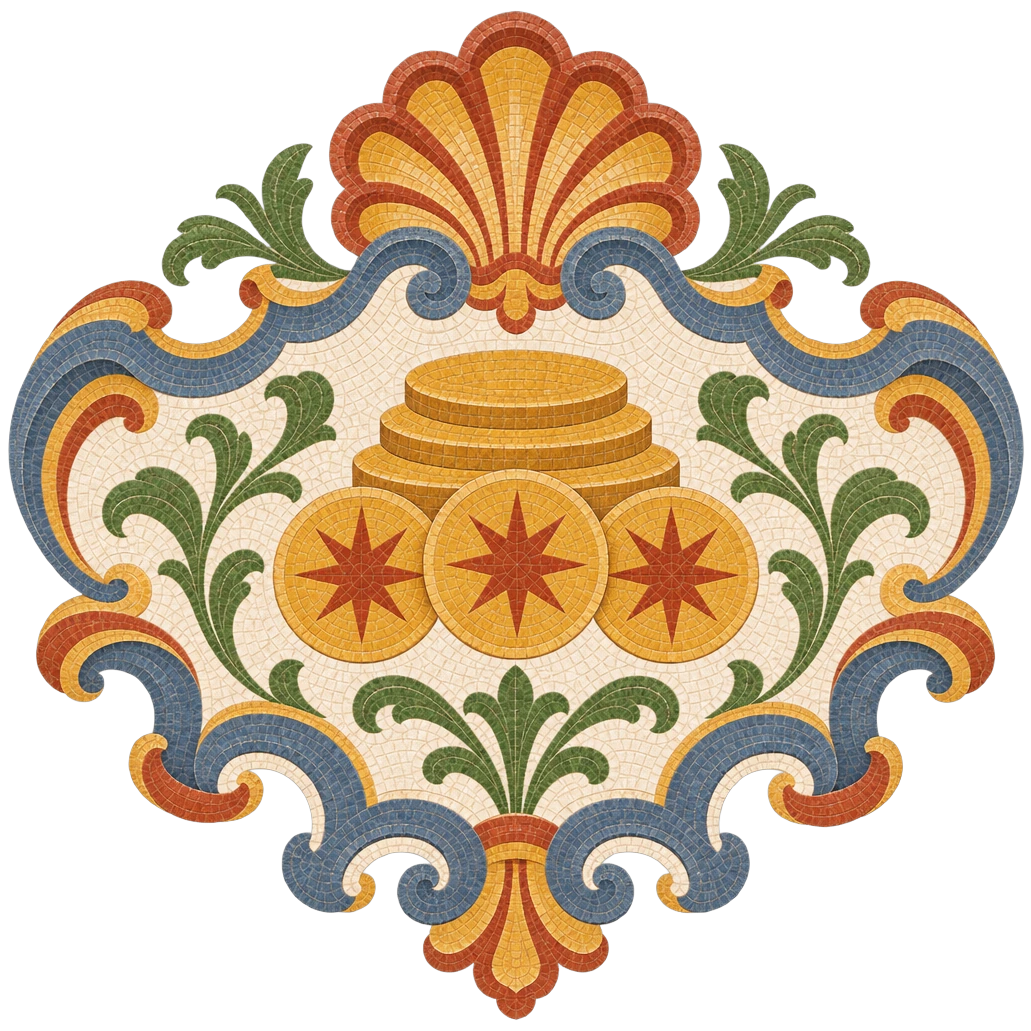
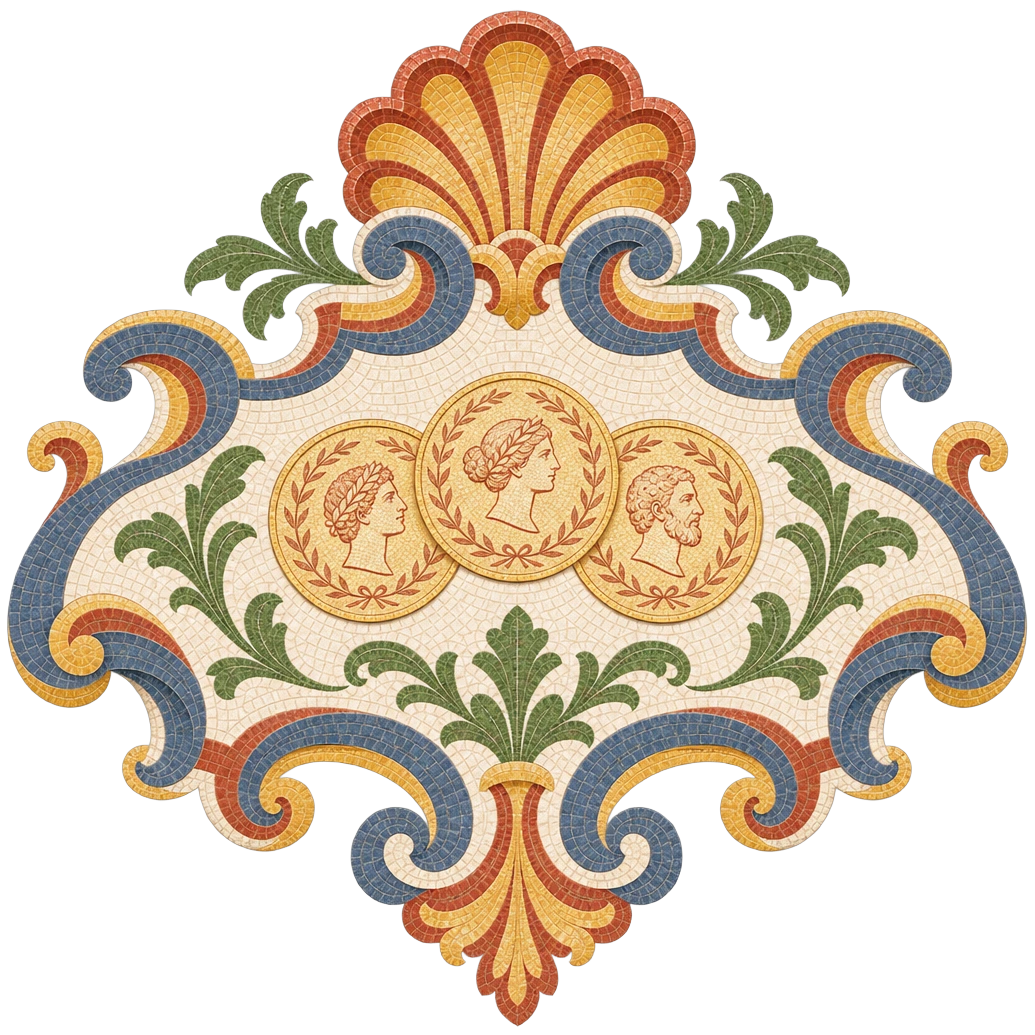
Kazakhstan flag, refined coins, a family tree, mosaic road and doc check
From the owner's notes on phone screenshots:

- Visa D shows the flag of Kazakhstan in its cartouche; the passport
  cartouche stays with the visa point about the passport.
- DSU and ISEEU: three thin coins with laurel rims instead of the
  egg-like round coins.
- Family documents: a family tree on papers instead of two odd columns.
- The document-check upload zone shows the doc-check cartouche (a scroll,
  a magnifying glass and a check) instead of the felt folder; ObjectIcon
  is no longer used and goes.
- The guide road no longer looks unfinished: every open stop holds four
  tesserae, the next stop is a paper circle with a terracotta ring, the
  line is laid in short tesserae, the header counts once, and the
  landmarks beside the road are flat mosaic vignettes. The cabinet road
  keeps its look; no numerals in the circles (owner, 4 Nov).

Claude-Session: https://claude.ai/code/session_01EJf3uoJW8TN46ucPCkbbdr

diff --git a/src/components/guides/GuideRoad.tsx b/src/components/guides/GuideRoad.tsx
@@ -13,8 +13,8 @@ import local from "./guide-road.module.css";
    (portal-path.module.css): медальоны по змейке, остановки-станции с
    предметом, линия по реальным центрам остановок, макеты Италии в карманах
    изгиба. Смысл — чтение: прочитано — зелёный с галочкой, «читать дальше» —
-   крупный терракотовый со звездой (один на дорогу), открыто — бумажный с
-   точкой, закрыто до оплаты — замок. Полоса сверху — сколько прочитано из
+   крупный, с терракотовым кольцом и цветной смальтой (один на дорогу),
+   открыто — бумажный с приглушённой смальтой, закрыто до оплаты — замок. Полоса сверху — сколько прочитано из
    открытого. Устройство с оплаченным кабинетом видит всё без замков.
    Змейка, линия и пейзаж повторяют PortalRoad.tsx (кабинет): меняешь там —
    сверь здесь. */
@@ -36,9 +36,21 @@ const outside = (i: number): "left" | "right" => Math.sin(2 * Math.PI * (i + 0.5
 type NodeState = "done" | "current" | "todo" | "locked";
 function NodeMark({ state }: { state: NodeState }) {
   if (state === "done") return <svg viewBox="0 0 24 24" aria-hidden="true" data-mark="done"><path d="m6 12.6 3.9 3.9L18.2 8" /></svg>;
-  if (state === "current") return <svg viewBox="0 0 24 24" aria-hidden="true" data-mark="current"><path d="m12 4.4 2.25 4.6 5.05.72-3.65 3.57.86 5.04L12 15.95l-4.51 2.38.86-5.04L4.7 9.72l5.05-.73Z" /></svg>;
   if (state === "locked") return <svg viewBox="0 0 24 24" aria-hidden="true" data-mark="locked"><rect x="6.5" y="10.8" width="11" height="8.4" rx="2.1" /><path d="M9 10.8V8.9a3 3 0 0 1 6 0v1.9" /></svg>;
-  return <span className={styles.nodeDot} aria-hidden="true" />;
+  return <Tesserae />;
+}
+
+/* Четыре кусочка смальты ромбом — знак остановки, которую ещё читать
+   (owner, 19 Nov: дорога «чуть будто бы недоделанная, сыровато»; пустой
+   кружок с серой точкой читался как незаполненное гнездо). Цифр нет:
+   owner, 4 Nov — без «Шаг 01» и крупных номеров. */
+function Tesserae() {
+  return <svg viewBox="0 0 24 24" aria-hidden="true" data-mark="tesserae">
+    <path d="M12 1.8 16.8 6.6 12 11.4 7.2 6.6Z" fill="#B83A27" />
+    <path d="M17.4 7.2 22.2 12 17.4 16.8 12.6 12Z" fill="#D9A441" />
+    <path d="M12 12.6 16.8 17.4 12 22.2 7.2 17.4Z" fill="#6E5644" />
+    <path d="M6.6 7.2 11.4 12 6.6 16.8 1.8 12Z" fill="#5E7F3E" />
+  </svg>;
 }
 
 const reachedPoint = (state: string) => state === "done" || state === "current" || state === "station-done" || state === "station-current";
@@ -74,19 +86,18 @@ function useRouteLine(wrap: RefObject<HTMLDivElement | null>, line: RefObject<SV
   }, [wrap, line, version]);
 }
 
-/* Те же макеты Италии, что вдоль дороги кабинета (scenery-2026-11-07.json):
-   в кармане изгиба, не чаще чем раз в три остановки; рядом с закрытым — серые.
-   Макеты с Веспи чередуются с местами, двух подряд нет. */
+/* Виды Италии у изгибов дороги — плоская мозаика с пола Галереи, тем же
+   камнем, что картуши тем (owner, 19 Nov: дорога «сыровато»; объёмные макеты
+   спорили с мозаикой, design/illustrations/scenery-mosaic-2026-11-19.json).
+   В кармане изгиба, не чаще чем раз в три остановки; рядом с закрытым —
+   серые. Кабинет оставляет свои макеты (PortalRoad.tsx). */
 const SCENERY = [
-  { name: "colosseum", width: 560, height: 401 },
-  { name: "vespi-map", width: 560, height: 459 },
-  { name: "duomo", width: 560, height: 439 },
-  { name: "vespi-gondola", width: 560, height: 401 },
-  { name: "pisa", width: 560, height: 684 },
-  { name: "vespi-trevi", width: 560, height: 448 },
-  { name: "tuscany", width: 560, height: 380 },
-  { name: "vespi-espresso", width: 560, height: 463 },
-  { name: "bologna", width: 560, height: 668 },
+  { name: "colosseum", width: 560, height: 369 },
+  { name: "duomo", width: 560, height: 454 },
+  { name: "gondola", width: 560, height: 389 },
+  { name: "pisa", width: 560, height: 850 },
+  { name: "tuscany", width: 560, height: 392 },
+  { name: "bologna", width: 560, height: 684 },
 ] as const;
 const SCENERY_EVERY = 3;
 type SceneryPlace = { art: (typeof SCENERY)[number]; side: "left" | "right" };
@@ -103,7 +114,7 @@ function Scenery({ place, reached }: { place: SceneryPlace; reached: boolean }) 
   const { name, width, height } = place.art;
   const file = reached ? name : `${name}-grey`;
   return <li className={styles.scenery} aria-hidden="true" data-road-scenery={name} data-side={place.side} data-scenery-shape={height > width ? "tall" : "wide"}>
-    <img src={`/illustrations/scenery/${file}-280.webp`} srcSet={`/illustrations/scenery/${file}-280.webp 280w, /illustrations/scenery/${file}-560.webp 560w`}
+    <img src={`/illustrations/scenery-mosaic/${file}-280.webp`} srcSet={`/illustrations/scenery-mosaic/${file}-280.webp 280w, /illustrations/scenery-mosaic/${file}-560.webp 560w`}
       sizes="(max-width: 640px) 168px, 260px" width={width} height={height} alt="" loading="lazy" decoding="async" draggable={false} />
   </li>;
 }
@@ -129,7 +140,6 @@ export function GuideRoad({ id, heading, stations, showStations = true, scenery 
   const openKeys = [...new Set(steps.flatMap(step => step.openKeys))];
   const available = allKeys;
   const readCount = available.filter(key => read.has(key)).length;
-  const percent = available.length ? Math.round(readCount / available.length * 100) : 0;
   const caption = paid ? "всё открыто: на этом устройстве выполнен вход в кабинет"
     : openKeys.length === 0 ? "разбор этой темы — с маршрутом"
     : openKeys.length < allKeys.length ? `открыто ${openKeys.length}, ещё ${allKeys.length - openKeys.length} — с маршрутом` : "";
@@ -144,9 +154,10 @@ export function GuideRoad({ id, heading, stations, showStations = true, scenery 
   return <section className={`${styles.path} ${local.guideRoad}`} style={{ ...ROAD_VARS, "--route-fill": available.length ? readCount / available.length : 0 } as CSSProperties}
     data-guide-road={id} aria-labelledby={`${id}-road-heading`}>
     <div className={styles.head}>
+      {/* Owner, 19 Nov («сыровато»): «0%», «0 из 5» и полоса говорили одно и
+          то же трижды — остались счёт и полоса. */}
       <div className={styles.headTop}>
         <h2 id={`${id}-road-heading`}>{heading}</h2>
-        <p className={styles.percent} aria-hidden="true"><strong>{percent}%</strong><span>прочитано</span></p>
       </div>
       <p className={styles.count} data-road-count>Прочитано <strong>{readCount}</strong> из {available.length}{caption && <span className={styles.ahead} data-path-caption> · {caption}</span>}</p>
       <div className={styles.meter} aria-hidden="true"><div className={styles.rail}>

diff --git a/src/components/plan/DocCheck.tsx b/src/components/plan/DocCheck.tsx
@@ -1,6 +1,7 @@
 "use client";
+/* eslint-disable @next/next/no-img-element -- Local pre-sized WebP art for the static export. */
 
-import { ObjectIcon } from "@/components/icons/ObjectIcon";
+import { cartoucheFrame } from "@/components/guides/guideArt";
 import { documentOutcome } from "@/lib/portalDocument";
 
 import { useEffect, useId, useRef, useState } from "react";
@@ -24,6 +25,7 @@ import portalStyles from "@/components/portal/portal-document.module.css";
 import styles from "./plan-workspace.module.css";
 import disclosure from "@/components/ui/disclosure.module.css";
 
+const DOC_CHECK_ART = cartoucheFrame("doc-check");
 const MARK: Record<string, string> = { ok: "✓", warn: "!", error: "✕", unknown: "?" };
 const LABEL: Record<string, string> = {
   ok: "Видимых ошибок нет",
@@ -303,14 +305,15 @@ export function DocCheck({ onComplete, academicYear, portalInspector = false, in
             disabled={state.step === "reading" || unavailable || availabilityPending}
             onChange={(e) => accept(e.target.files?.[0])}
           />
-          <ObjectIcon name="folder-quiet" size={60} />
+          {/* Owner, 19 Nov: войлочная папка «чуть страшновата» — тот же
+              мозаичный картуш, что у тем гайдов: свиток с лупой и галочкой. */}
+          <img src={DOC_CHECK_ART.src} srcSet={DOC_CHECK_ART.srcSet} sizes="88px" width={88} height={88} alt="" aria-hidden="true" loading="lazy" decoding="async" draggable={false} data-doc-check-art />
           <b className={styles.fileAction}>Выбрать документ</b>
           <small>или перетащи сюда<br />{portalInspector ? "PDF, DOCX, TXT, RTF до 5 МБ. Фото сжимаются автоматически." : "Фото, PDF, Word до 5 МБ"}</small>
         </label>
       ) : (
         <div className="mt-5 flex items-start gap-3 rounded-[20px] border border-white/15 p-4 sm:items-center sm:gap-4">
           {preview ? (
-            // eslint-disable-next-line @next/next/no-img-element
             <img
               src={preview}
               alt="документ"

diff --git a/src/components/guides/guide-road.module.css b/src/components/guides/guide-road.module.css
@@ -14,3 +14,17 @@
   .guideRoad [data-road-status] { flex-wrap:nowrap; white-space:nowrap; }
   .tail { height:40px; }
 }
+
+/* Owner, 19 Nov: дорога «чуть будто бы недоделанная, сыровато». Разбор
+   (design critique): пустые кружки с серой точкой читались как гнёзда без
+   содержимого, текущий шаг — красный шар со звездой из другой, игровой
+   стилистики, пунктир был бледной россыпью. Теперь остановка несёт смальту
+   (Tesserae в GuideRoad.tsx), текущая — та же бумага с терракотовым кольцом,
+   а линия выложена прямоугольными кусочками, как пол Галереи. */
+.guideRoad [data-road-line] path { stroke:#D9CBB6; stroke-width:6px; stroke-linecap:butt; stroke-dasharray:7 5; }
+.guideRoad [data-road-line] path[data-state=walked] { stroke:#3A8560; stroke-dasharray:none; stroke-linecap:round; }
+.guideRoad [data-road-line] path[data-state=later] { stroke:#E9E0D3; }
+.guideRoad [data-node-state] [data-road-point] svg[data-mark=tesserae] { width:44%; height:44%; }
+.guideRoad [data-node-state=todo] [data-road-point] svg[data-mark=tesserae] { filter:saturate(.35); opacity:.7; }
+.guideRoad [data-node-state=current] [data-road-point] { --size:calc(var(--node) + 8px); --rim:#B83A27; background:#FFFDF9; color:#B83A27; box-shadow:inset 0 0 0 3px var(--rim),0 10px 18px -12px rgba(120,40,24,.55); }
+.guideRoad [data-node-state=current] [data-road-point] svg[data-mark=tesserae] { width:50%; height:50%; }

diff --git a/src/components/guides/guideArt.ts b/src/components/guides/guideArt.ts
@@ -25,7 +25,10 @@
    только крупный: шапка темы, плитка каталога, пункт визы. Метки на пути
    (56px) остаются предметами общего набора. Плоская классическая эмблема
    темы в барочном картуше из мраморной смальты,
-   design/illustrations/cartouche-2026-11-19.json.
+   design/illustrations/cartouche-2026-11-19.json. Owner, 19 Nov (о плитках
+   каталога): у визы — «флаг конкретный Казахстана», монеты DSU «слишком
+   по-яичному… более утончённым», у справок семьи вместо колонн — другое
+   (семейное дерево на справках). Паспорт остаётся у пункта визы о паспорте.
    Главная, кабинет и план оставляют общий набор предметов (objectFrame).
    Картинки декоративные (alt=""): смысл несут заголовок и тизер темы. */
 const ART: Record<string, string> = {
@@ -36,7 +39,7 @@ const ART: Record<string, string> = {
   cimea: "folder",
   con: "family-docs",
   iseeu: "coins",
-  visa: "passport",
+  visa: "kz-flag",
   minors: "minors",
   military: "military",
   permesso: "keys",

diff --git a/src/components/plan/plan-workspace.module.css b/src/components/plan/plan-workspace.module.css
@@ -100,7 +100,7 @@
 @media (hover: hover) and (pointer: fine) { .dropzone:hover { background:var(--color-coral-soft); } }
 .dropzone:focus-within { outline:2px solid var(--color-ink); outline-offset:4px; }
 /* Папка тише (owner, 8 Nov): приглушённый рендер, без тени, чуть прозрачнее. */
-.dropzone > img { margin-bottom:4px; opacity:.85; }
+.dropzone > img { margin-bottom:4px; }
 .fileAction { display:inline-flex; align-items:center; justify-content:center; min-height:46px; padding:11px 22px; border-radius:999px; background:var(--color-ink); color:white; font-size:14px; font-weight:600; }
 .dropzone:has(input:disabled) { cursor:wait; }
 .dropzone:has(input:disabled) .fileAction { background:var(--color-warm-stone); color:var(--color-cloud-body); }

diff --git a/DESIGN.md b/DESIGN.md
@@ -2130,3 +2130,40 @@ followed:
   shared object set (`objectFrame`). The guides use `cartoucheFrame` in
   `src/components/guides/guideArt.ts`: square, 480 px with a 240 px copy.
 - Manifest: design/illustrations/cartouche-2026-11-19.json.
+
+## Sharper topic cartouches and a finished guide road · 19 November 2026
+
+Notes from the owner, on phone screenshots of the catalogue tiles, a guide
+road and the document check:
+
+- **Cartouches.**
+  - Visa D: «флаг конкретный Казахстана». The emblem is the Kazakhstan flag
+    on a slim pole. The passport cartouche stays with the visa point about
+    the passport.
+  - DSU and ISEEU: the coins looked «слишком по-яичному», so they are now
+    three thin coins with laurel rims, «более утончённым».
+  - Family documents: the two «странные» columns became a family tree on a
+    stack of papers.
+- **The upload zone of the document check.** The felt folder («чуть
+  страшновата») became the doc-check cartouche: a scroll, a magnifying
+  glass and a check. It is shown at 88 px, at full colour, in the plan and
+  in the cabinet.
+- **The guide road** («чуть будто бы недоделанная, сыровато»; reviewed with
+  a design critique).
+  - Each open stop now holds four tesserae as a small rosette, muted.
+    Before, an empty paper circle with a grey dot read as an unfilled
+    socket.
+  - The stop to read next is the same paper circle with a terracotta ring
+    and the rosette in full colour, not a red ball with a star. The «Начни
+    здесь» chip stays.
+  - No numerals in the circles (owner, 4 Nov).
+  - The line is laid in short rectangular tesserae (7 px with 5 px gaps)
+    instead of pale round dots; the part already read is still solid green.
+  - The header says the count once: «Прочитано 0 из 5» and the bar; the big
+    percentage repeated it.
+  - The landmarks beside the road are flat mosaic vignettes from the same
+    floor: Colosseum, Florence cathedral, gondola, Pisa, Tuscan hills,
+    Bologna towers. Beside closed steps they show as muted grey.
+  - The cabinet road keeps its own look.
+- Manifests: design/illustrations/cartouche-2026-11-19.json,
+  design/illustrations/scenery-mosaic-2026-11-19.json.
